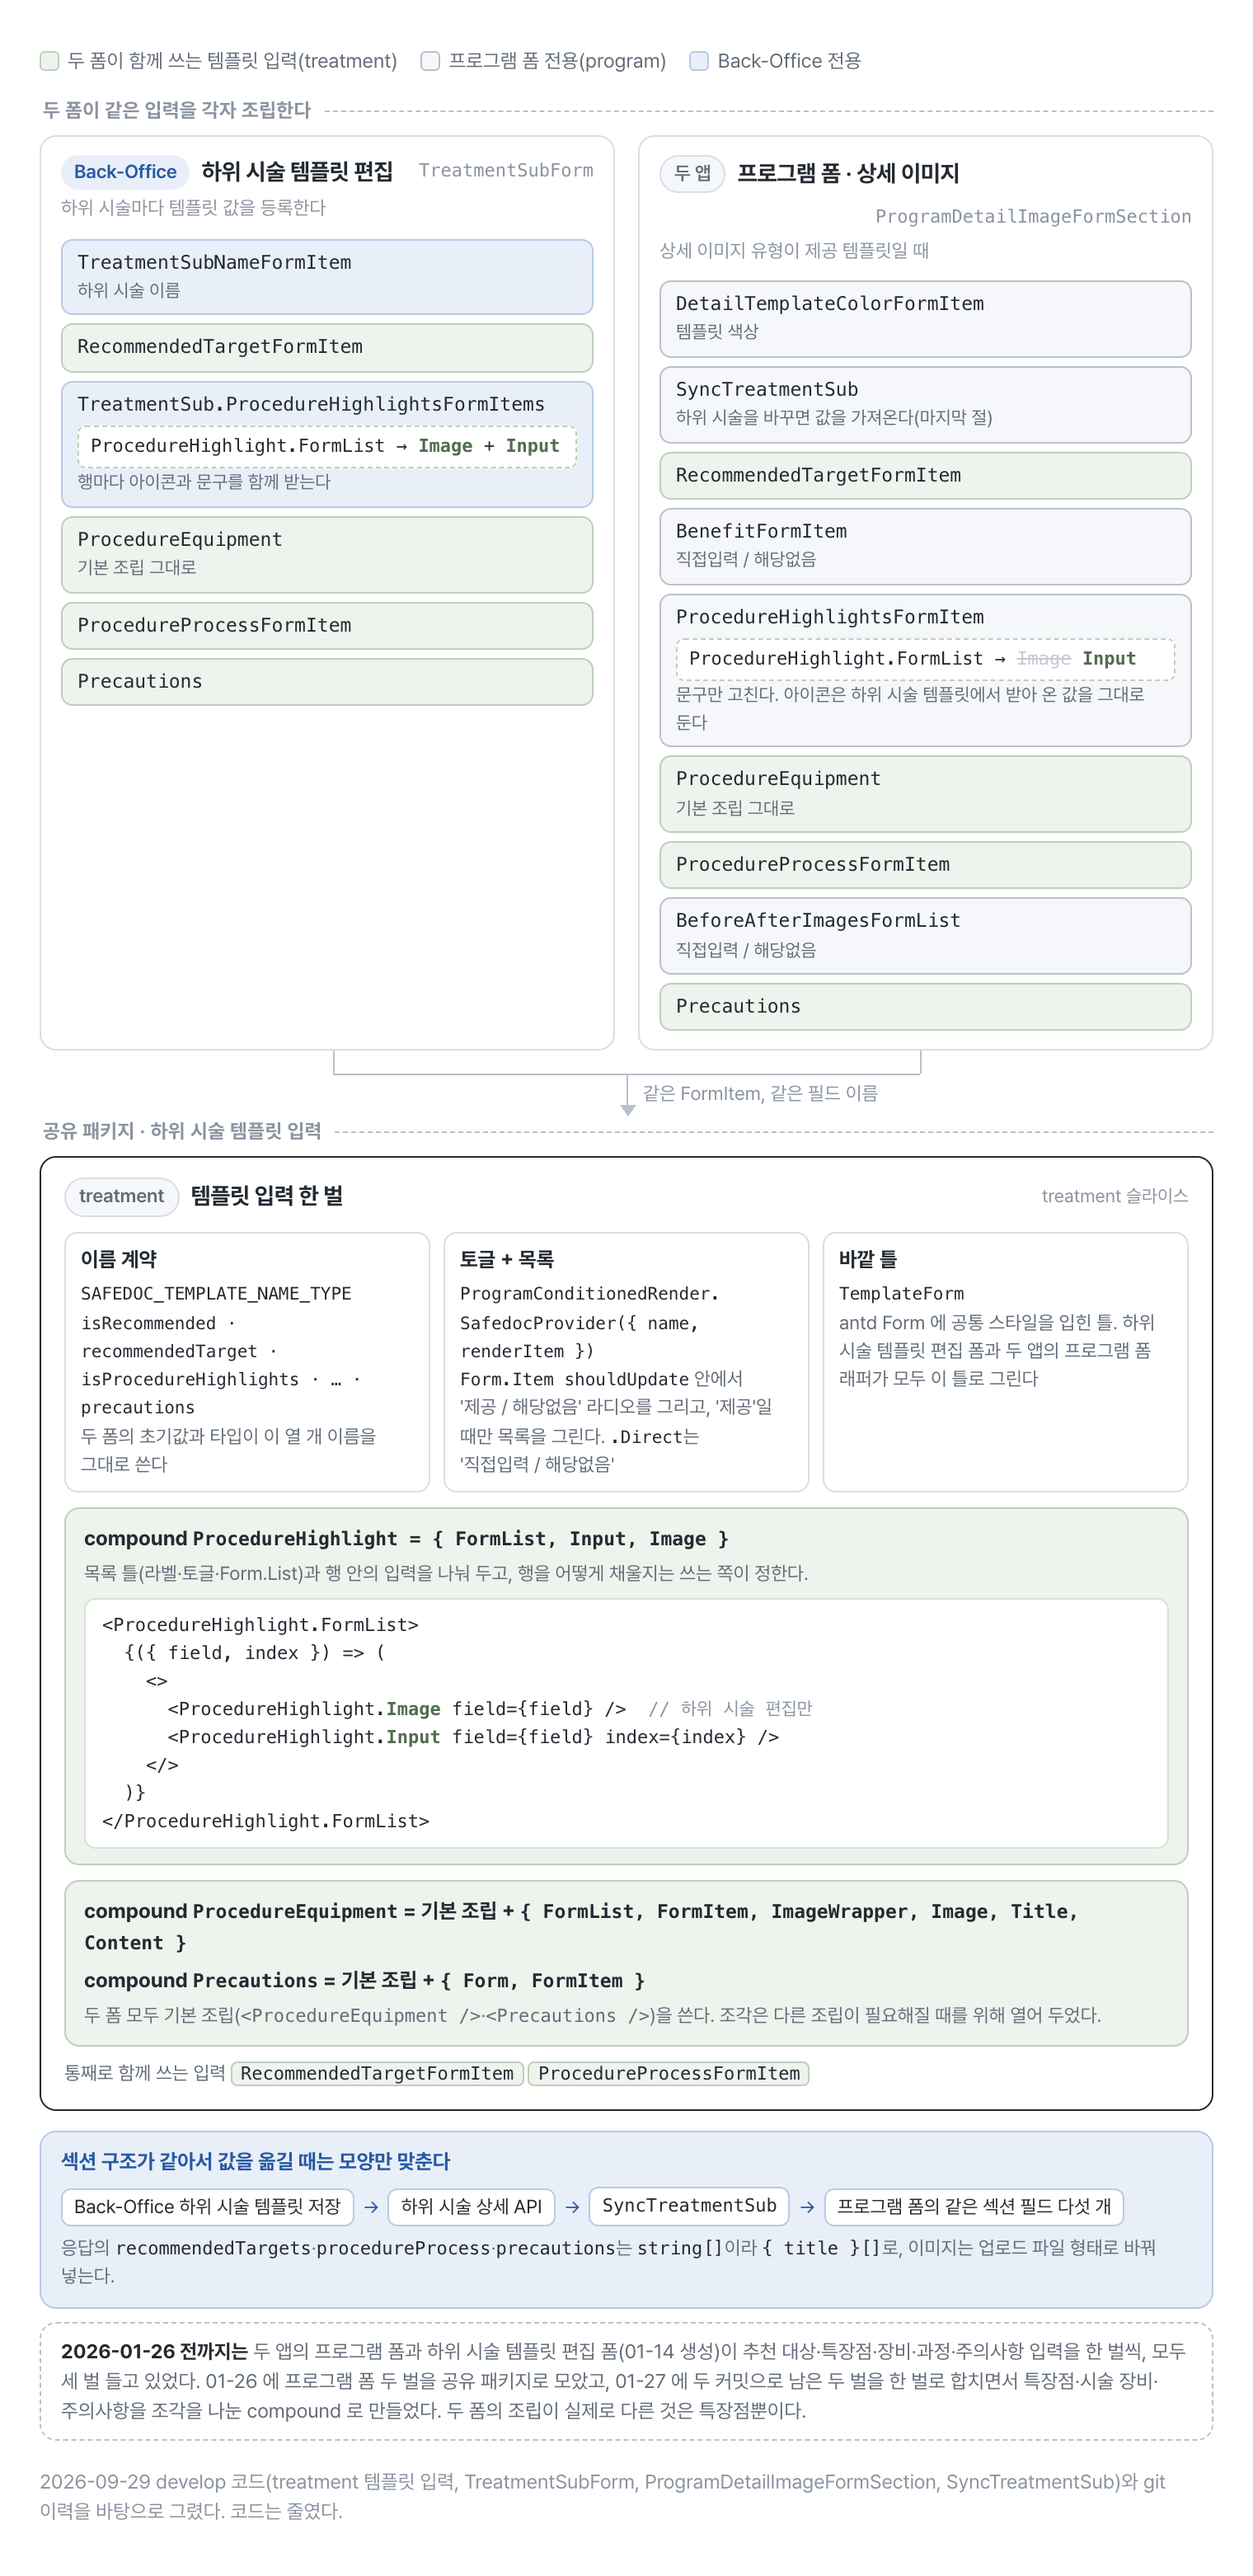
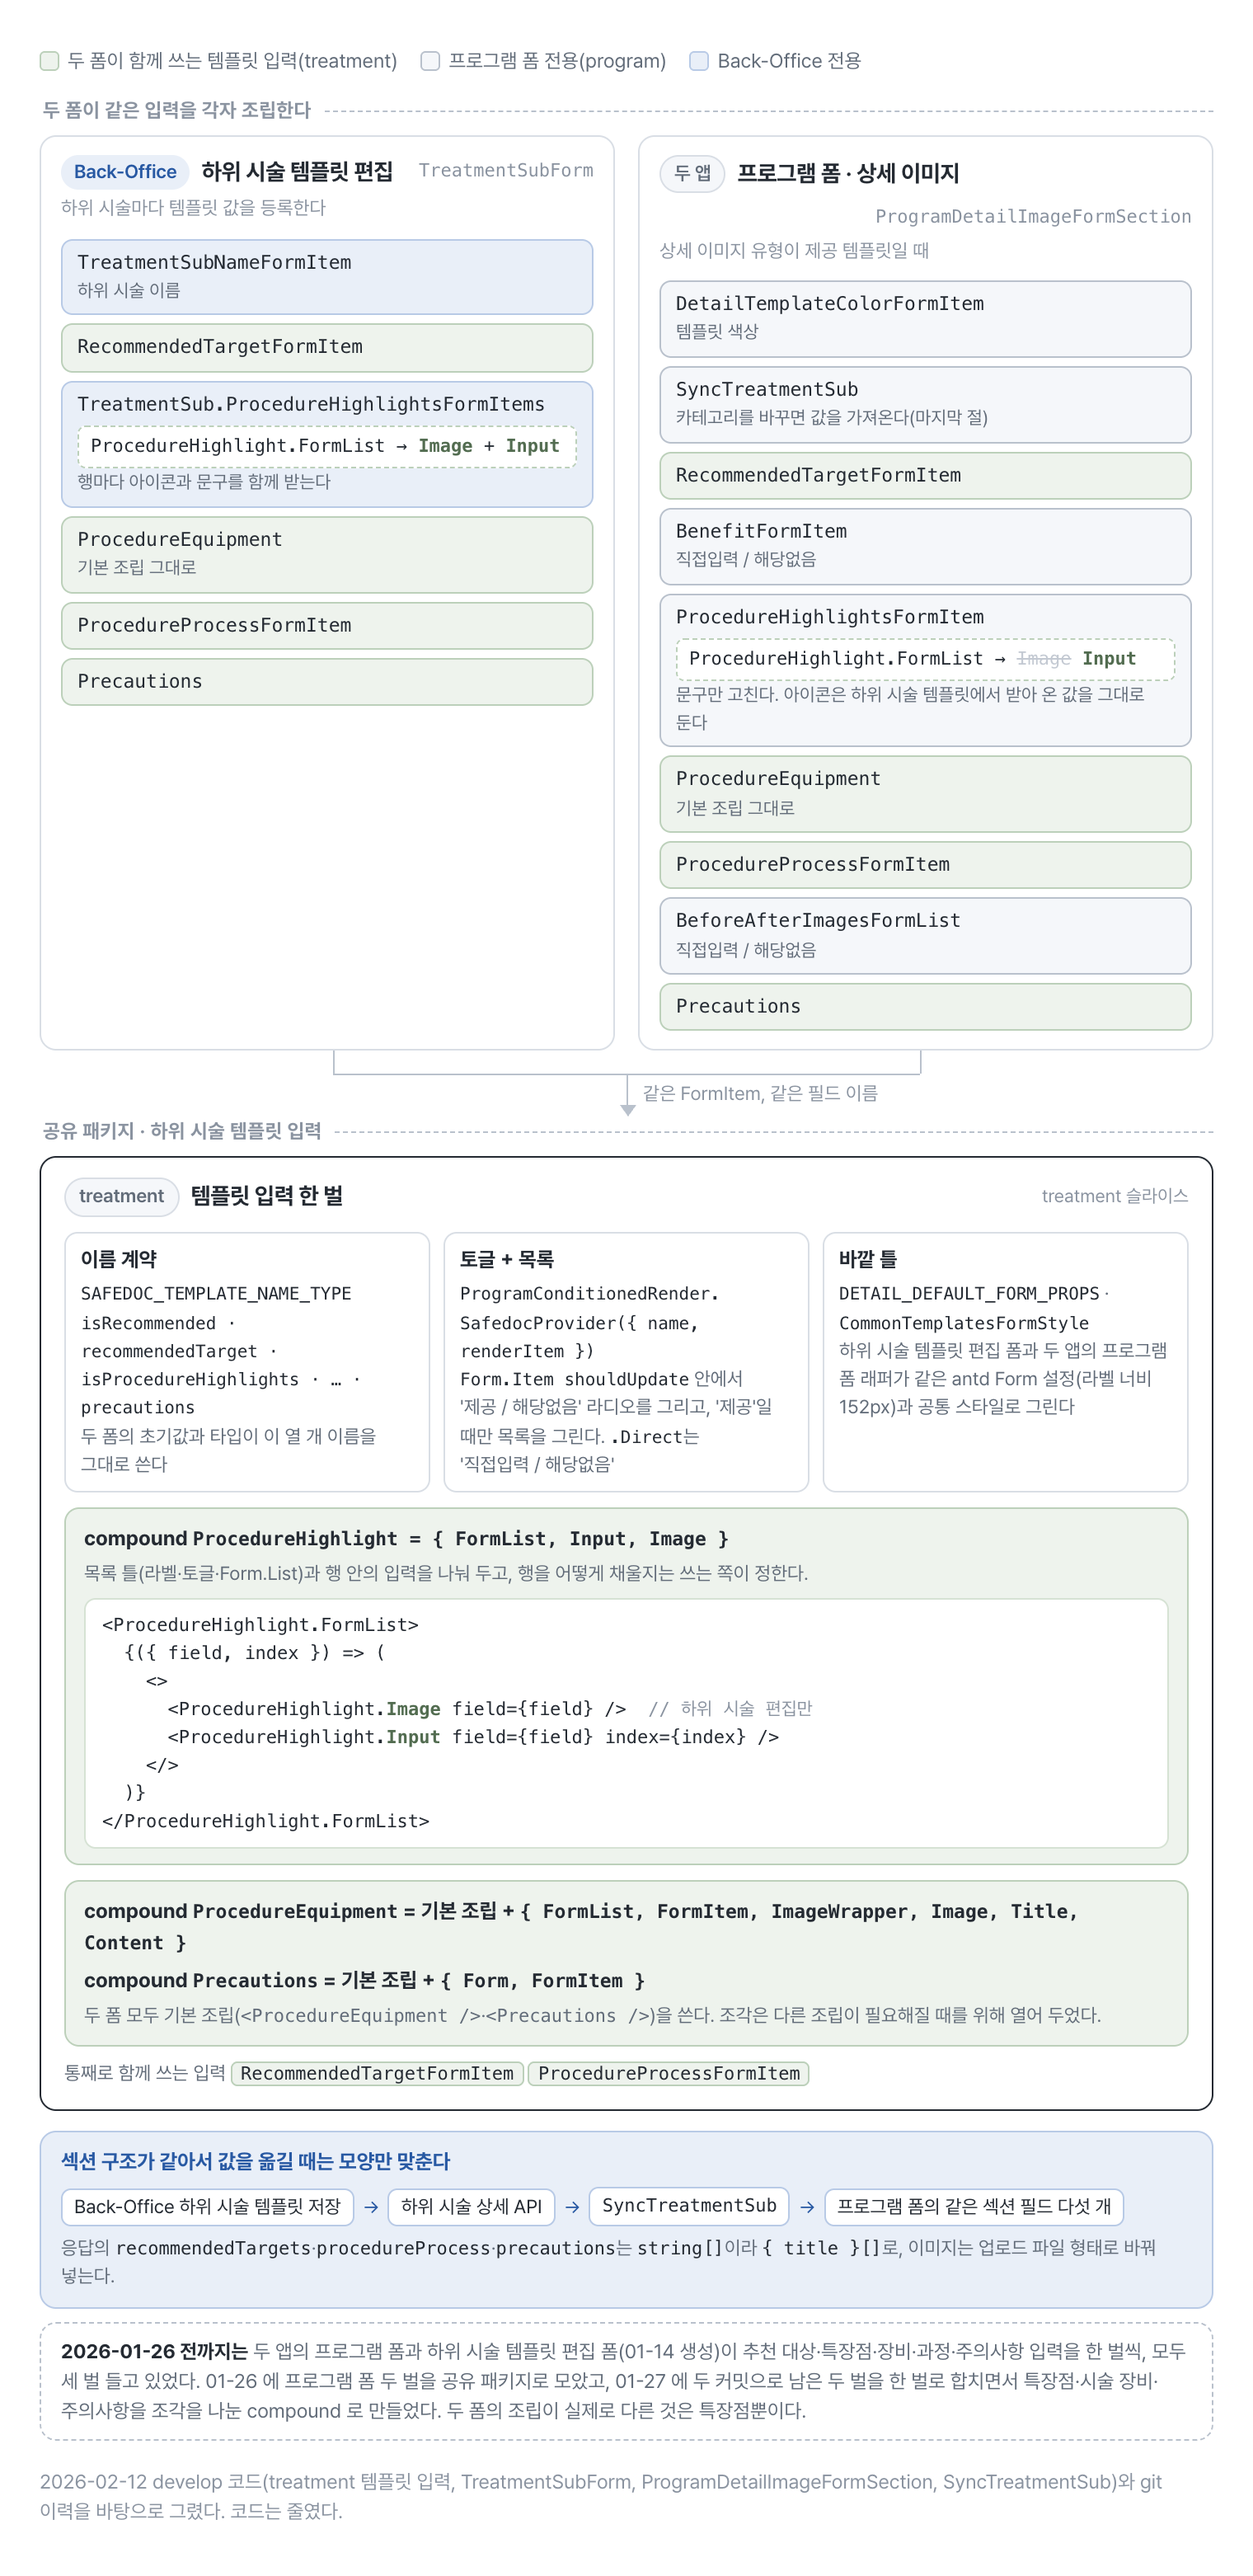
docs(blog): 템플릿 compound FormItem 그림의 바깥 틀을 당시 Form 설정으로 맞춘다

Changed region(s): [[0.6493, 0.4968, 0.9276, 0.5589], [0.5875, 0.1552, 0.6184, 0.1863]]

diff --git a/blog/assets/figures/program-form/src/05-shared-template-formitems.html b/blog/assets/figures/program-form/src/05-shared-template-formitems.html
@@ -88,7 +88,7 @@
     <p class="when">상세 이미지 유형이 제공 템플릿일 때</p>
     <div class="stack">
       <div class="blk prog">DetailTemplateColorFormItem<span class="s">템플릿 색상</span></div>
-      <div class="blk prog">SyncTreatmentSub<span class="s">하위 시술을 바꾸면 값을 가져온다(마지막 절)</span></div>
+      <div class="blk prog">SyncTreatmentSub<span class="s">카테고리를 바꾸면 값을 가져온다(마지막 절)</span></div>
       <div class="blk shared">RecommendedTargetFormItem</div>
       <div class="blk prog">BenefitFormItem<span class="s">직접입력 / 해당없음</span></div>
       <div class="blk prog">ProcedureHighlightsFormItem
@@ -110,7 +110,7 @@
   <div class="trio">
     <div class="mini"><b>이름 계약</b><code>SAFEDOC_TEMPLATE_NAME_TYPE</code><br><code>isRecommended · recommendedTarget · isProcedureHighlights · … · precautions</code><br>두 폼의 초기값과 타입이 이 열 개 이름을 그대로 쓴다</div>
     <div class="mini"><b>토글 + 목록</b><code>ProgramConditionedRender.<wbr>SafedocProvider(<wbr>{ name, renderItem })</code><br><code>Form.Item shouldUpdate</code> 안에서 <span class="nw">'제공 / 해당없음'</span> 라디오를 그리고, '제공'일 때만 목록을 그린다. <code>.Direct</code>는 <span class="nw">'직접입력 / 해당없음'</span></div>
-    <div class="mini"><b>바깥 틀</b><code>TemplateForm</code><br>antd Form 에 공통 스타일을 입힌 틀. 하위 시술 템플릿 편집 폼과 두 앱의 프로그램 폼 래퍼가 모두 이 틀로 그린다</div>
+    <div class="mini"><b>바깥 틀</b><code>DETAIL_DEFAULT_FORM_PROPS</code> · <code>CommonTemplatesFormStyle</code><br>하위 시술 템플릿 편집 폼과 두 앱의 프로그램 폼 래퍼가 같은 antd Form 설정(라벨 너비 152px)과 공통 스타일로 그린다</div>
   </div>
 
   <div class="comp">
@@ -146,5 +146,5 @@
 
 <div class="hist"><b>2026-01-26 전까지는</b> 두 앱의 프로그램 폼과 하위 시술 템플릿 편집 폼(01-14 생성)이 추천 대상·특장점·장비·과정·주의사항 입력을 한 벌씩, 모두 세 벌 들고 있었다. 01-26 에 프로그램 폼 두 벌을 공유 패키지로 모았고, 01-27 에 두 커밋으로 남은 두 벌을 한 벌로 합치면서 특장점·시술 장비·주의사항을 조각을 나눈 compound 로 만들었다. 두 폼의 조립이 실제로 다른 것은 특장점뿐이다.</div>
 
-<p class="foot">2026-09-29 develop 코드(treatment 템플릿 입력, TreatmentSubForm, ProgramDetailImageFormSection, SyncTreatmentSub)와 git 이력을 바탕으로 그렸다. 코드는 줄였다.</p>
+<p class="foot">2026-02-12 develop 코드(treatment 템플릿 입력, TreatmentSubForm, ProgramDetailImageFormSection, SyncTreatmentSub)와 git 이력을 바탕으로 그렸다. 코드는 줄였다.</p>
 </body></html>
